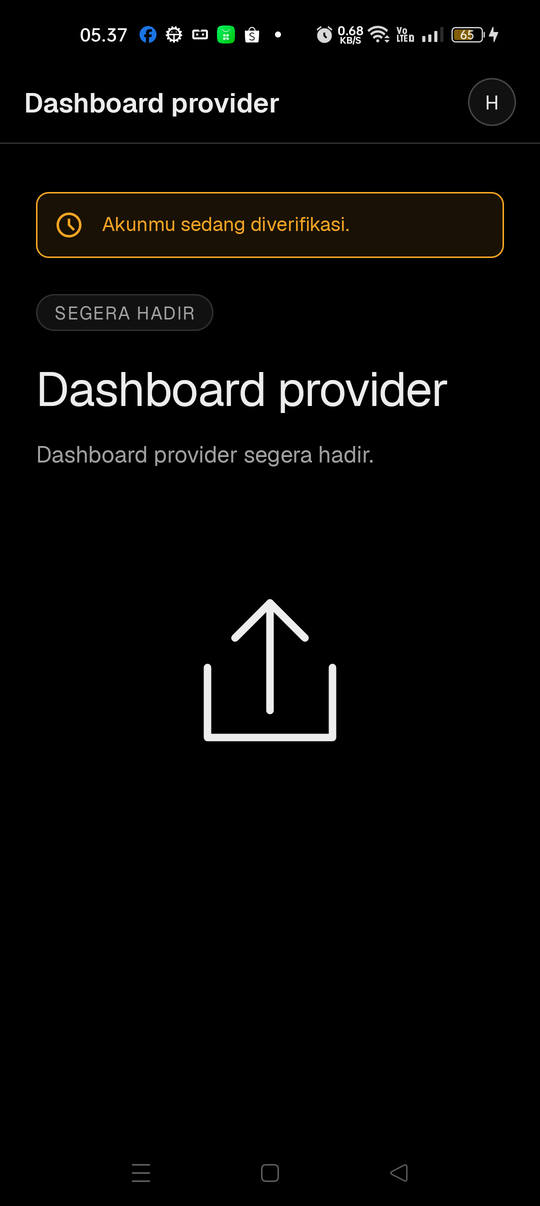
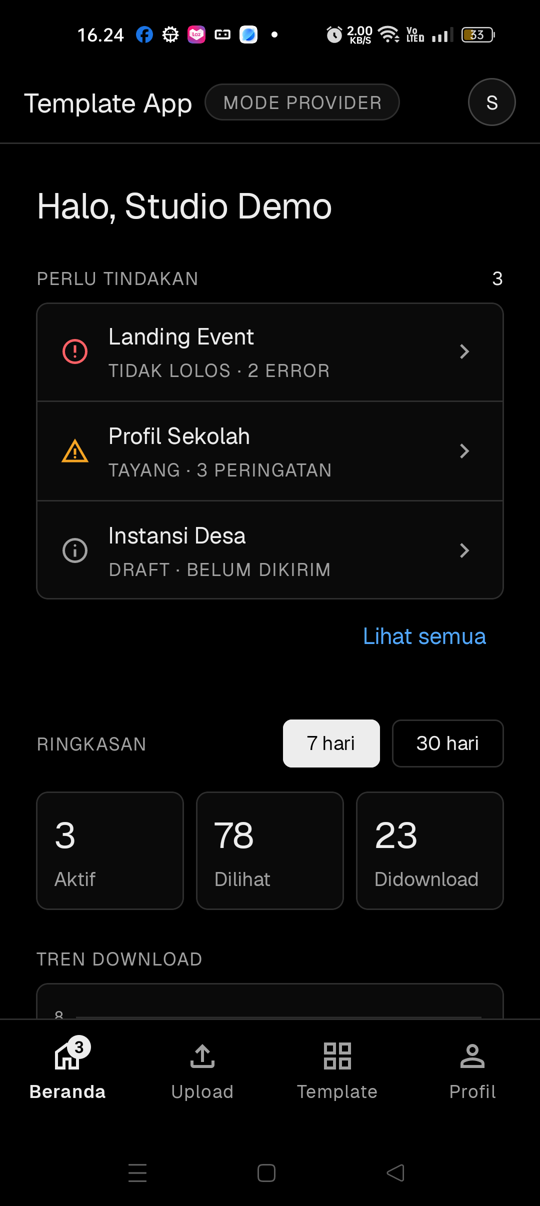
fase-12: perbaikan dari uji di HP, screenshot Dashboard Provider, hasil uji
- Grafik: label 30 hari tidak menumpuk
- Template Anda: "filter kosong" vs "belum ada template" dibedakan dengan benar,
  keyboard ditutup saat memilih filter
- StateView: warna Lottie dipasang ulang setiap ganti animasi (tak terlihat di mode gelap)
- Shell: bottom nav disembunyikan saat keyboard terbuka, tombol kembali → Beranda,
  Beranda dimuat ulang saat tab dibuka lagi
- Screenshot 08, 12–15 terang & gelap; README, catatan belajar, dokumentasi diperbarui

diff --git a/android/app/src/main/java/com/aris/templateapp/ui/provider/ProviderDashboardFragment.java b/android/app/src/main/java/com/aris/templateapp/ui/provider/ProviderDashboardFragment.java
@@ -4,11 +4,15 @@ import android.os.Bundle;
 import android.view.LayoutInflater;
 import android.view.View;
 import android.view.ViewGroup;
+import android.view.ViewTreeObserver;
 
+import androidx.activity.OnBackPressedCallback;
 import androidx.annotation.IdRes;
 import androidx.annotation.NonNull;
 import androidx.annotation.Nullable;
 import androidx.core.content.ContextCompat;
+import androidx.core.view.ViewCompat;
+import androidx.core.view.WindowInsetsCompat;
 import androidx.fragment.app.Fragment;
 import androidx.fragment.app.FragmentManager;
 import androidx.fragment.app.FragmentTransaction;
@@ -44,6 +48,28 @@ public class ProviderDashboardFragment extends Fragment {
     private CurrentUserViewModel userViewModel;
     @IdRes
     private int selectedTab = R.id.tab_home;
+    /**
+     * Bottom navigation disembunyikan selama keyboard terbuka (mis. saat mengetik di pencarian Template Anda),
+     * supaya ruang layar yang tersisa dipakai untuk isi, bukan untuk tab.
+     */
+    /** Tombol kembali di tab selain Beranda membuka Beranda dulu; di Beranda baru menutup app. */
+    private final OnBackPressedCallback backToHome = new OnBackPressedCallback(false) {
+        @Override
+        public void handleOnBackPressed() {
+            selectTab(R.id.tab_home);
+        }
+    };
+    private final ViewTreeObserver.OnGlobalLayoutListener keyboardListener = () -> {
+        if (binding == null) {
+            return;
+        }
+        WindowInsetsCompat insets = ViewCompat.getRootWindowInsets(binding.getRoot());
+        int visibility = insets != null && insets.isVisible(WindowInsetsCompat.Type.ime()) ? View.GONE : View.VISIBLE;
+        if (binding.bottomNav.getVisibility() != visibility) {
+            binding.bottomNav.setVisibility(visibility);
+            binding.bottomNavDivider.setVisibility(visibility);
+        }
+    };
 
     @Override
     public void onCreate(@Nullable Bundle savedInstanceState) {
@@ -75,6 +101,8 @@ public class ProviderDashboardFragment extends Fragment {
             }
         });
 
+        binding.getRoot().getViewTreeObserver().addOnGlobalLayoutListener(keyboardListener);
+        requireActivity().getOnBackPressedDispatcher().addCallback(getViewLifecycleOwner(), backToHome);
         binding.bottomNav.setOnItemSelectedListener(item -> {
             showTab(item.getItemId());
             return true;
@@ -131,6 +159,7 @@ public class ProviderDashboardFragment extends Fragment {
 
     private void showTab(@IdRes int tab) {
         selectedTab = tab;
+        backToHome.setEnabled(tab != R.id.tab_home);
         FragmentManager fm = getChildFragmentManager();
         FragmentTransaction transaction = fm.beginTransaction().setReorderingAllowed(true);
         for (int id : TABS) {
@@ -166,6 +195,7 @@ public class ProviderDashboardFragment extends Fragment {
     @Override
     public void onDestroyView() {
         super.onDestroyView();
+        binding.getRoot().getViewTreeObserver().removeOnGlobalLayoutListener(keyboardListener);
         binding = null;
     }
 }

diff --git a/android/app/src/main/java/com/aris/templateapp/ui/provider/ProviderTemplatesFragment.java b/android/app/src/main/java/com/aris/templateapp/ui/provider/ProviderTemplatesFragment.java
@@ -143,10 +143,7 @@ public class ProviderTemplatesFragment extends Fragment {
             if (actionId == EditorInfo.IME_ACTION_SEARCH) {
                 handler.removeCallbacks(applySearch);
                 applySearch.run();
-                InputMethodManager imm = ContextCompat.getSystemService(requireContext(), InputMethodManager.class);
-                if (imm != null) {
-                    imm.hideSoftInputFromWindow(v.getWindowToken(), 0);
-                }
+                hideKeyboard();
                 return true;
             }
             return false;
@@ -204,7 +201,17 @@ public class ProviderTemplatesFragment extends Fragment {
         }
     }
 
+    /** Keyboard ditutup saat user beralih ke filter lain, supaya hasilnya langsung terlihat. */
+    private void hideKeyboard() {
+        binding.searchInput.clearFocus();
+        InputMethodManager imm = ContextCompat.getSystemService(requireContext(), InputMethodManager.class);
+        if (imm != null) {
+            imm.hideSoftInputFromWindow(binding.searchInput.getWindowToken(), 0);
+        }
+    }
+
     private void showCategoryMenu(View anchor) {
+        hideKeyboard();
         PopupMenu popup = new PopupMenu(requireContext(), anchor);
         for (int i = 0; i < CATEGORIES.length; i++) {
             String value = CATEGORIES[i];
@@ -220,6 +227,7 @@ public class ProviderTemplatesFragment extends Fragment {
     }
 
     private void showSortMenu(View anchor) {
+        hideKeyboard();
         PopupMenu popup = new PopupMenu(requireContext(), anchor);
         for (int i = 0; i < SORTS.length; i++) {
             popup.getMenu().add(Menu.NONE, i, i, SORT_LABELS[i]);
@@ -246,7 +254,9 @@ public class ProviderTemplatesFragment extends Fragment {
             binding.state.showError(ErrorMessages.forError(requireContext(), state.error), viewModel::refresh);
         } else if (!state.loadingFirstPage && state.items.isEmpty()) {
             binding.list.setVisibility(View.GONE);
-            if (state.hasNoTemplates()) {
+            // Jumlah dari server ikut tersaring kategori & pencarian, jadi "belum punya template" hanya
+            // bisa dipastikan saat tidak ada filter yang aktif.
+            if (state.hasNoTemplates() && !viewModel.hasActiveFilter()) {
                 binding.state.showEmpty(getString(R.string.templates_empty), getString(R.string.action_open_guide),
                         () -> ProviderNav.openGuide(this, Guide.PREPARE_TEMPLATE));
             } else {
@@ -261,6 +271,7 @@ public class ProviderTemplatesFragment extends Fragment {
     }
 
     private void clearFilters() {
+        hideKeyboard();
         handler.removeCallbacks(applySearch);
         viewModel.clearFilters();
         binding.searchInput.setText("");

diff --git a/android/app/src/main/java/com/aris/templateapp/ui/common/AreaChartView.java b/android/app/src/main/java/com/aris/templateapp/ui/common/AreaChartView.java
@@ -195,16 +195,27 @@ public class AreaChartView extends View {
 
     private void drawXLabels(Canvas canvas, float left, float right) {
         float y = getHeight() - getPaddingBottom();
-        for (int i = 0; i < points.size(); i++) {
-            // Label terakhir (hari ini) selalu ditampilkan agar ujung kanan grafik jelas.
-            if (i % labelEvery != 0 && i != points.size() - 1) {
+        int last = points.size() - 1;
+        // Label terakhir (hari ini) selalu ditampilkan agar ujung kanan grafik jelas; label lain yang akan
+        // menabraknya dilewati (mis. "30/9" tepat sebelum "4/10").
+        float lastX = labelX(last, left, right);
+        for (int i = 0; i < last; i++) {
+            if (i % labelEvery != 0) {
                 continue;
             }
-            String label = points.get(i).axisLabel;
-            float width = labelPaint.measureText(label);
-            float x = Math.max(left, Math.min(xOf(i, left, right) - width / 2, getWidth() - getPaddingRight() - width));
-            canvas.drawText(label, x, y, labelPaint);
+            float x = labelX(i, left, right);
+            if (x + labelPaint.measureText(points.get(i).axisLabel) + labelGap > lastX) {
+                continue;
+            }
+            canvas.drawText(points.get(i).axisLabel, x, y, labelPaint);
         }
+        canvas.drawText(points.get(last).axisLabel, lastX, y, labelPaint);
+    }
+
+    /** Posisi kiri label sumbu X: di tengah titiknya, tetapi tidak keluar dari tepi grafik. */
+    private float labelX(int index, float left, float right) {
+        float width = labelPaint.measureText(points.get(index).axisLabel);
+        return Math.max(left, Math.min(xOf(index, left, right) - width / 2, getWidth() - getPaddingRight() - width));
     }
 
     private void drawSelection(Canvas canvas, long maxValue, float left, float right, float top, float bottom) {

diff --git a/android/app/src/main/java/com/aris/templateapp/ui/common/StateView.java b/android/app/src/main/java/com/aris/templateapp/ui/common/StateView.java
@@ -27,7 +27,6 @@ public class StateView extends FrameLayout {
     public StateView(@NonNull Context context, @Nullable AttributeSet attrs) {
         super(context, attrs);
         binding = ViewStateBinding.inflate(LayoutInflater.from(context), this);
-        LottieTint.applyForeground(binding.animation);
         setVisibility(GONE);
     }
 
@@ -57,6 +56,9 @@ public class StateView extends FrameLayout {
                       @Nullable Runnable retry) {
         setVisibility(VISIBLE);
         binding.animation.setAnimation(animation);
+        // Warna dipasang ulang setiap ganti animasi: pengaturan warna Lottie melekat pada animasi yang sedang
+        // dimuat, sehingga hilang saat berganti (mis. loading → kosong) dan garis hitam tak terlihat di mode gelap.
+        LottieTint.applyForeground(binding.animation);
         binding.animation.playAnimation();
         binding.message.setText(message);
         binding.retryButton.setText(actionText);

diff --git a/android/app/src/main/java/com/aris/templateapp/ui/provider/ProviderHomeFragment.java b/android/app/src/main/java/com/aris/templateapp/ui/provider/ProviderHomeFragment.java
@@ -87,6 +87,15 @@ public class ProviderHomeFragment extends Fragment {
         startedBefore = true;
     }
 
+    /** Tab Beranda dibuka lagi lewat bottom navigation: perbarui diam-diam (badge ikut diperbarui). */
+    @Override
+    public void onHiddenChanged(boolean hidden) {
+        super.onHiddenChanged(hidden);
+        if (!hidden && viewModel != null) {
+            viewModel.load(true);
+        }
+    }
+
     private ProviderDashboardFragment shell() {
         return (ProviderDashboardFragment) requireParentFragment();
     }

diff --git a/android/app/src/main/java/com/aris/templateapp/ui/provider/TemplateListState.java b/android/app/src/main/java/com/aris/templateapp/ui/provider/TemplateListState.java
@@ -30,7 +30,7 @@ public final class TemplateListState {
         this.error = error;
     }
 
-    /** Provider memang belum punya template sama sekali (bukan karena filter). */
+    /** Jumlah "Semua" bernilai 0. Tanpa filter kategori/pencarian aktif, artinya provider belum punya template. */
     public boolean hasNoTemplates() {
         return counts != null && counts.all == 0;
     }

diff --git a/docs/dokumentasi-project.md b/docs/dokumentasi-project.md
@@ -923,6 +923,8 @@ Dibuka DI ATAS shell lewat ProviderNav (tujuan di nav_graph, tombol kembali → 
 
 **Kenapa tab = Fragment anak dengan show/hide, bukan NavHost kedua?** Dengan show/hide, setiap tab dibuat sekali lalu hanya disembunyikan, jadi isi dan posisi scroll tetap utuh saat pindah tab. Layar lanjutan tetap memakai Navigation **utama**: `NavHostFragment.findNavController(fragmentAnak)` mencari ke atas sampai NavHostFragment terdekat, yaitu milik Activity. Kalau ada NavHost kedua di dalam shell, menu profil (`ProfileSheet`) akan menemukan NavHost yang salah saat membuka Pengaturan.
 
+**Tombol kembali** di tab selain Beranda membuka Beranda dulu (`OnBackPressedCallback` yang hanya aktif saat tab ≠ Beranda); di Beranda baru menutup app. **Keyboard terbuka** (mis. saat mencari) → bottom navigation disembunyikan; keadaan keyboard dibaca dari `ViewCompat.getRootWindowInsets(...).isVisible(Type.ime())` setiap layout berubah.
+
 **Tab terpilih diingat** di field `selectedTab` dan `onSaveInstanceState`. Saat kembali dari detail, view shell dibuat ulang, tetapi Fragment anaknya masih tersimpan di `childFragmentManager`, sehingga tab yang sama langsung tampil lagi.
 
 ### Siapa memiliki data (ViewModel)
@@ -956,7 +958,7 @@ Grafik ini digambar sendiri di `onDraw(Canvas)` (keputusan Aris: tanpa library):
 1. **Skala Y** dihitung `niceMax()`: nilai terbesar dibulatkan ke atas menjadi 1/2/5 × 10ⁿ × 4. Hasilnya, 4 garis grid selalu berlabel bilangan bulat, misalnya 23 → sumbu 0–40.
 2. **Garis** dibuat dengan `Path.lineTo` antar-titik. **Area** memakai path yang sama, ditutup ke dasar grafik, lalu diisi `LinearGradient` warna foreground dari alpha 70 ke 0.
 3. **Label** memakai Geist Mono. Untuk 7 hari ditampilkan nama hari; untuk 30 hari tanggal setiap 5 hari, ditambah hari terakhir (`DownloadTrendChart`).
-4. **Ketuk/geser**: `onTouchEvent` mencari titik terdekat dari posisi jari, lalu menggambar garis vertikal + tooltip "Rab, 30 Sep · 5 download". `requestDisallowInterceptTouchEvent(true)` mencegah ScrollView ikut menggeser layar saat jari menggeser grafik.
+4. **Ketuk/geser**: `onTouchEvent` mencari titik terdekat dari posisi jari, lalu menggambar garis vertikal + tooltip "Rab, 30 Sep · 5 download". Hanya geseran yang lebih **mendatar** (melewati *touch slop*) yang memanggil `requestDisallowInterceptTouchEvent(true)`; geseran tegak tetap dibiarkan untuk ScrollView, jadi layar bisa di-scroll walau jari mulai di atas grafik.
 5. Semua warna diambil dari `@color/...`, jadi grafik otomatis ikut mode gelap.
 
 `DownloadTrendChart` (data → titik) dan `niceMax` adalah fungsi murni, sehingga diuji dengan unit test biasa.
@@ -966,7 +968,8 @@ Grafik ini digambar sendiri di `onDraw(Canvas)` (keputusan Aris: tanpa library):
 - **Pencarian** menunggu 400 ms setelah user berhenti mengetik (`Handler.postDelayed`), supaya tidak mengirim request untuk setiap huruf. Tombol cari di keyboard langsung menjalankannya.
 - **Chip status** menampilkan jumlah dari respons (`counts`). Dropdown kategori dan urutan memakai `PopupMenu`.
 - **Paginasi**: `RecyclerView.OnScrollListener` memanggil `loadMore()` saat tersisa 5 kartu di bawah layar. `ConcatAdapter` menggabungkan `TemplateAdapter` (kartu) dengan `LoadingFooterAdapter` (indikator di bawah). `ListAdapter` + `DiffUtil` hanya menggambar kartu yang baru.
-- **Keadaan**: kerangka (skeleton) saat halaman pertama dimuat; "Belum ada template…" + Buka panduan; "Tidak ada template dengan filter ini." + Hapus filter; error + Coba lagi. `StateView` sekarang bisa menampilkan satu tombol aksi selain "Coba lagi".
+- **Keadaan**: kerangka (skeleton) saat halaman pertama dimuat; "Belum ada template…" + Buka panduan; "Tidak ada template dengan filter ini." + Hapus filter; error + Coba lagi. `StateView` sekarang bisa menampilkan satu tombol aksi selain "Coba lagi", dan memasang ulang warna Lottie setiap kali animasinya diganti (pengaturan warna Lottie melekat pada animasi yang sedang dimuat).
+- Jumlah di chip ikut tersaring kategori & pencarian, jadi "Belum ada template" hanya ditampilkan jika jumlah Semua = 0 **dan** tidak ada filter aktif.
 - `TemplateListState` adalah objek **tidak berubah** yang dibuat baru setiap kali ada perubahan, jadi layar cukup menggambar ulang dari satu objek.
 
 ### Detail, Profil, Edit profil

diff --git a/docs/catatan-belajar/fase-12.md b/docs/catatan-belajar/fase-12.md
@@ -43,7 +43,20 @@ Sumber rancangan: [`docs/rancangan/alur-provider.md`](../rancangan/alur-provider
 - `./gradlew testDebugUnitTest`: **lulus, 35 test** (termasuk 9 test baru untuk grafik dan waktu relatif).
 - `./gradlew lintDebug`: **0 error, 0 peringatan**.
 - `./gradlew assembleDebug`: berhasil.
-- Uji di HP: _menunggu HP tersambung lagi_ (wireless debugging terputus saat build selesai).
+- Uji di HP (realme, Android 13, wireless debugging):
+  - Akun Aris (provider tanpa template): checklist "0 dari 3" + kartu "Lengkapi profil kreatormu" + badge 1; setelah panduan dibuka → "1 dari 3" dan titik "baru" hilang; Template Anda kosong + Buka panduan; Upload "Segera hadir"; Profil & Edit profil terisi benar.
+  - Akun demo: badge 3, Perlu tindakan (Landing Event 2 error, Profil Sekolah 3 peringatan, Instansi Desa draft), ringkasan 7 hari 3 · 78 · 23 dan 30 hari 3 · 376 · 97, grafik 7/30 hari + tooltip, populer berurutan, "Lihat semua" → filter Perlu perbaikan (2), detail Landing Event (2 error + 1 peringatan), pencarian, filter kategori, Hapus filter, filter tetap diingat setelah kembali dari detail.
+  - `dummy10` dibuat `suspended` lewat SQL → app dibuka ulang → Dashboard Pembuat Website + banner "Mode provider dinonaktifkan…".
+  - `dummy8`: checklist provider baru. Screenshot terang & gelap diambil (08, 12–15 di `docs/screenshots/`).
+- Masalah yang ditemukan saat uji di HP dan sudah diperbaiki:
+  - Geser tegak yang dimulai di atas grafik tidak men-scroll layar → grafik hanya mengambil alih geseran mendatar.
+  - Label tanggal "30/9" dan "4/10" menumpuk di grafik 30 hari → label yang menabrak label hari terakhir dilewati.
+  - Label tab "Template Anda" terpotong → "Template". Label "Segera hadir" berupa pil membuat judul terlipat 3 baris → dipindah ke baris keterangan.
+  - Pencarian tanpa hasil menampilkan "Belum ada template…" (jumlah chip ikut tersaring pencarian) → kini "Tidak ada template dengan filter ini." + Hapus filter.
+  - Animasi Lottie di `StateView` tak terlihat di mode gelap: warna hilang setiap ganti animasi (bug lama Fase 06) → warna dipasang ulang setiap ganti animasi.
+  - Bottom navigation ikut naik di atas keyboard → disembunyikan selama keyboard terbuka; keyboard ditutup saat memilih filter.
+  - Tombol kembali di tab selain Beranda langsung menutup app → kembali ke Beranda dulu.
+  - Beranda tidak diperbarui saat tab dibuka lagi → dimuat ulang diam-diam.
 
 ## Konsep yang dipelajari
 - Custom View: `onDraw(Canvas)`, `Paint`, `Path`, `LinearGradient`, `onTouchEvent`, `requestDisallowInterceptTouchEvent`.
@@ -53,6 +66,7 @@ Sumber rancangan: [`docs/rancangan/alur-provider.md`](../rancangan/alur-provider
 - Debounce pencarian dengan `Handler.postDelayed`.
 - Mengabaikan jawaban request yang sudah basi (nomor `generation`).
 - `BadgeDrawable` di `BottomNavigationView`.
+- `OnBackPressedCallback` (tombol kembali kustom) dan membaca keadaan keyboard dari `WindowInsetsCompat`.
 
 ## Latihan untuk Aris
 1. Di `AreaChartView`, ubah alpha gradasi dari 70 menjadi 140 lalu Run. Apa bedanya di mode terang dan gelap? Kembalikan lagi.
@@ -60,7 +74,8 @@ Sumber rancangan: [`docs/rancangan/alur-provider.md`](../rancangan/alur-provider
 3. Jalankan `UPDATE templates SET warning_count = 0 WHERE name = 'Profil Sekolah';`, lalu kembali ke Beranda. Berapa angka badge tab Beranda sekarang, dan kenapa berubah tanpa menekan apa pun?
 
 ## Yang perlu Aris lakukan
-- Nyalakan lagi wireless debugging di HP supaya Fase 12 bisa diuji di HP dan screenshot diambil.
+- Masuk lagi dengan akunmu sendiri di HP (pengujian memakai akun demo & dummy).
+- Database dev: `dummy10` sekarang `suspended` (diubah lewat SQL saat pengujian, sesuai tabel akun dummy di README).
 
 ## Rencana fase berikutnya
 - Menunggu instruksi Aris: segmen Upload (rancangan bagian 9) atau fitur pembuatan website.

diff --git a/README.md b/README.md
@@ -40,7 +40,11 @@ Diambil dari HP asli (realme, Android 13) dengan akun dummy. File lengkap ada di
 | Pilih peran | <img src="docs/screenshots/05-pilih-peran-terang.png" width="220"> | <img src="docs/screenshots/05-pilih-peran-gelap.png" width="220"> |
 | Form pembuat website | <img src="docs/screenshots/06-form-pembuat-website-terang.png" width="220"> | <img src="docs/screenshots/06-form-pembuat-website-gelap.png" width="220"> |
 | Form provider | <img src="docs/screenshots/07-form-provider-terang.png" width="220"> | <img src="docs/screenshots/07-form-provider-gelap.png" width="220"> |
-| Dashboard provider (pending) | <img src="docs/screenshots/08-dashboard-provider-terang.png" width="220"> | <img src="docs/screenshots/08-dashboard-provider-gelap.png" width="220"> |
+| Dashboard provider: Beranda (akun demo) | <img src="docs/screenshots/08-dashboard-provider-terang.png" width="220"> | <img src="docs/screenshots/08-dashboard-provider-gelap.png" width="220"> |
+| Beranda: ringkasan, grafik tren, populer | <img src="docs/screenshots/12-beranda-grafik-terang.png" width="220"> | <img src="docs/screenshots/12-beranda-grafik-gelap.png" width="220"> |
+| Beranda provider baru (checklist) | <img src="docs/screenshots/15-beranda-provider-baru-terang.png" width="220"> | <img src="docs/screenshots/15-beranda-provider-baru-gelap.png" width="220"> |
+| Template Anda | <img src="docs/screenshots/13-template-anda-terang.png" width="220"> | <img src="docs/screenshots/13-template-anda-gelap.png" width="220"> |
+| Detail template + hasil pengecekan | <img src="docs/screenshots/14-detail-template-terang.png" width="220"> | <img src="docs/screenshots/14-detail-template-gelap.png" width="220"> |
 | Menu profil | <img src="docs/screenshots/09-menu-profil-terang.png" width="220"> | <img src="docs/screenshots/09-menu-profil-gelap.png" width="220"> |
 | Pengaturan | <img src="docs/screenshots/10-pengaturan-terang.png" width="220"> | <img src="docs/screenshots/10-pengaturan-gelap.png" width="220"> |
 | Metode login terhubung | <img src="docs/screenshots/11-metode-login-terang.png" width="220"> | <img src="docs/screenshots/11-metode-login-gelap.png" width="220"> |
@@ -425,6 +429,8 @@ Saat backend start dengan profile `dev` dan tabel `users` masih **kosong**, `Dum
 | `dummy3@templateapp.test` … `dummy7@templateapp.test` | Pembuat website, onboarding selesai | Dashboard pembuat website, "Jadi penyedia template" |
 | `dummy8@templateapp.test`, `dummy9@templateapp.test` | Pembuat website + provider **active** (belum punya template) | Dashboard Provider kosong + checklist provider baru, beralih mode |
 | `dummy10@templateapp.test` | Pembuat website + provider **suspended** | Mode provider terkunci → diarahkan ke mode pembuat website |
+
+> Database yang sudah diisi **sebelum Fase 11** memakai data seeder lama: migrasi V7 mengubah status lama `pending`/`approved`/`rejected` menjadi `active`, sehingga `dummy10` ikut aktif. Jadikan `suspended` lagi dengan SQL di bagian "Contoh SQL status provider".
 
 Nama tampilannya nama Indonesia acak dengan seed tetap, jadi hasilnya selalu sama setiap kali database diisi ulang.
 
